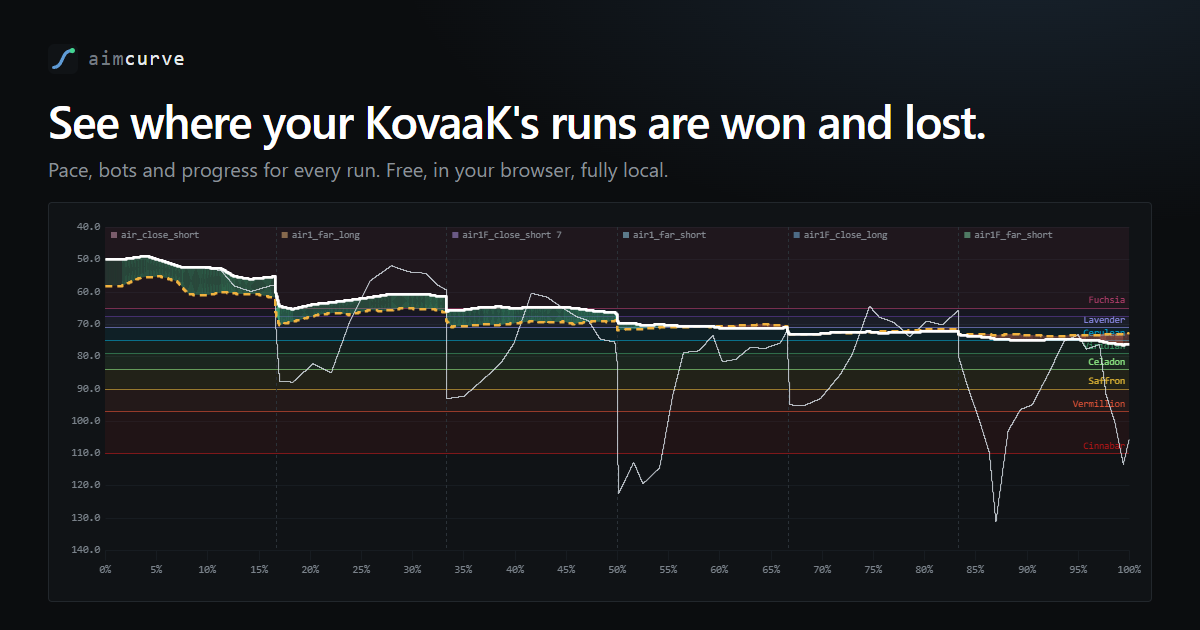
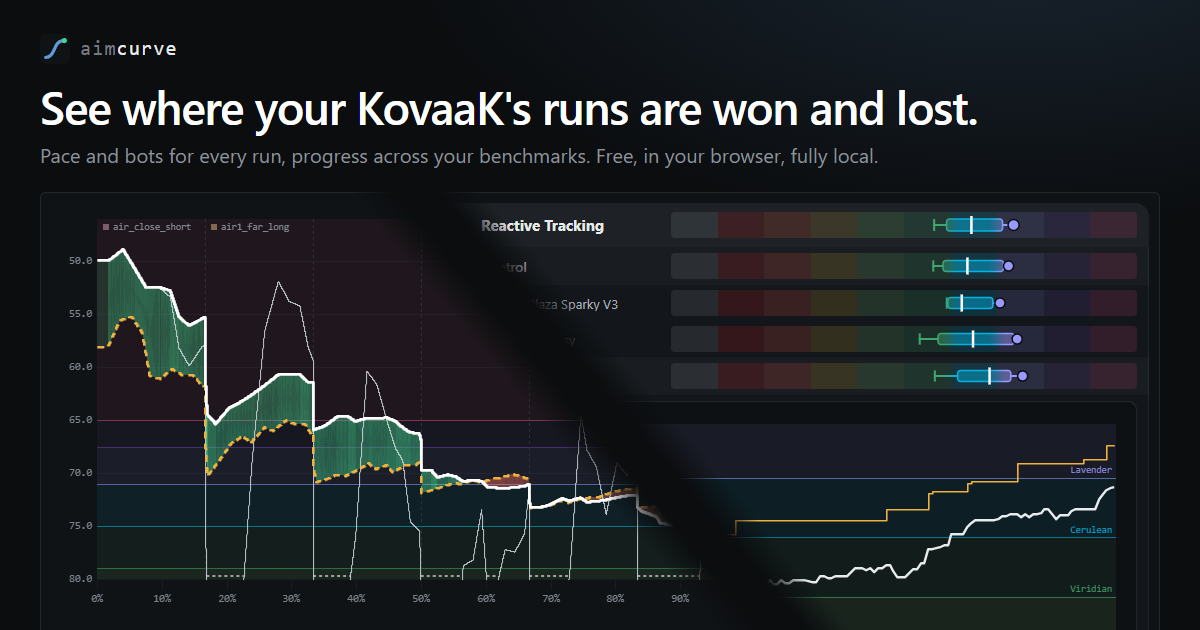
feat: the link card shows the run and the benchmark sheet
The pace chart and the Reactive Tracking sheet, Speed open, as two
same-size panels meeting along a diagonal with plain background between
them. The dev route shows exactly the 1200x630 card.

Claude-Session: https://claude.ai/code/session_014EkwJFtZ9Z7zsQA68omJgm

diff --git a/src/views/dev/CardView.vue b/src/views/dev/CardView.vue
@@ -5,40 +5,67 @@
  * docs/preview-assets.md). It covers the app shell, so the viewport is exactly
  * the card. A route of its own rather than a mode of About, so making the
  * image never marks About as seen and never ships.
+ *
+ * Two panels of the same size, the run's pace chart on the left and on the
+ * right one category of the benchmark sheet with a subcategory's history
+ * open. Their boxes overlap a little, but along a diagonal from top left to
+ * bottom right each fades out to the card's background before the other fades
+ * in: nothing is ever drawn over anything else.
  */
 import CardChart from '../../components/about/CardChart.vue';
+import CardSheet from '../../components/about/CardSheet.vue';
 import { provideDemo } from '../../components/about/provideDemo';
 
-const { state, attempt } = provideDemo();
+const { state, attempt, now } = provideDemo();
 </script>
 
 <template>
-	<div class="card" data-shot="og">
-		<header>
-			<p class="brand">
-				<img src="/favicon.svg" alt="" />
-				<span>aim<b>curve</b></span>
-			</p>
-			<h1>See where your KovaaK's runs are won and lost.</h1>
-			<p class="sub">Pace, bots and progress for every run. Free, in your browser, fully local.</p>
-		</header>
-		<div class="plot">
-			<CardChart v-if="state === 'ready' && attempt" :attempt="attempt" />
+	<!-- Everything past the card is cut off, so the route shows exactly what the image will. -->
+	<div class="backdrop">
+		<div class="card" data-shot="og">
+			<header>
+				<p class="brand">
+					<img src="/favicon.svg" alt="" />
+					<span>aim<b>curve</b></span>
+				</p>
+				<h1>See where your KovaaK's runs are won and lost.</h1>
+				<p class="sub">Pace and bots for every run, progress across your benchmarks. Free, in your browser, fully local.</p>
+			</header>
+			<div v-if="state === 'ready' && attempt" class="stage">
+				<div class="layer run">
+					<div class="panel plot">
+						<CardChart :attempt="attempt" />
+					</div>
+				</div>
+				<div class="layer bench">
+					<div class="panel sheet">
+						<CardSheet :now="now" open="Speed" />
+					</div>
+				</div>
+			</div>
 		</div>
 	</div>
 </template>
 
 <style scoped>
-.card {
+.backdrop {
 	position: fixed;
 	inset: 0;
 	z-index: 1000;
+	overflow: hidden;
+	background: #2b2f34;
+}
+
+.card {
+	position: absolute;
+	top: 0;
+	left: 0;
 	width: 1200px;
 	height: 630px;
 	display: flex;
 	flex-direction: column;
-	gap: 18px;
-	padding: 44px 48px 28px;
+	gap: 22px;
+	padding: 34px 40px 0;
 	background:
 		radial-gradient(900px 420px at 85% -10%, rgba(95, 155, 214, 0.16), transparent 70%),
 		var(--color-bg);
@@ -65,7 +92,7 @@ const { state, attempt } = provideDemo();
 }
 
 h1 {
-	margin-top: 22px;
+	margin-top: 18px;
 	font-size: 46px;
 	line-height: 1.05;
 	letter-spacing: -0.025em;
@@ -78,15 +105,73 @@ h1 {
 	color: var(--color-text-muted);
 }
 
-.plot {
+/*
+ * Both layers cover the whole stage, so their masks share one geometry: the
+ * run fades out by --out, the sheet fades in from --in, and between the two
+ * is plain background. The panels themselves are the same size, each --w of
+ * the stage, and run off the card's bottom edge.
+ */
+.stage {
+	--angle: 50deg;
+	--out: 48.5%;
+	--in: 51.5%;
+	--soft: 3%;
+	--w: 65%;
+	position: relative;
 	flex: 1 1 0;
 	min-height: 0;
+}
+
+.layer {
+	position: absolute;
+	inset: 0;
+}
+
+.run {
+	-webkit-mask-image: linear-gradient(var(--angle), #000 calc(var(--out) - var(--soft)), transparent var(--out));
+	mask-image: linear-gradient(var(--angle), #000 calc(var(--out) - var(--soft)), transparent var(--out));
+}
+
+.bench {
+	-webkit-mask-image: linear-gradient(var(--angle), transparent var(--in), #000 calc(var(--in) + var(--soft)));
+	mask-image: linear-gradient(var(--angle), transparent var(--in), #000 calc(var(--in) + var(--soft)));
+}
+
+.panel {
+	position: absolute;
+	top: 0;
+	bottom: 0;
+	width: var(--w);
+	overflow: hidden;
+	border: 1px solid var(--color-border);
+	border-bottom: 0;
+	border-radius: 6px 6px 0 0;
+	background: var(--color-surface);
+}
+
+.plot {
+	left: 0;
 	display: flex;
 	flex-direction: column;
-	border: 1px solid var(--color-border);
-	border-radius: 4px;
-	background: var(--color-surface);
-	padding: 6px 10px 0 0;
+	padding: 8px 10px 0 0;
+}
+
+.sheet {
+	right: 0;
+	padding: 10px 10px 0;
+}
+
+/* Names and candles only: the pills would squeeze the lanes, and add little here. */
+.sheet :deep(.sheet) {
+	min-width: 0;
+}
+
+.sheet :deep(.sheet-grid) {
+	grid-template-columns: 200px minmax(0, 1fr);
+}
+
+.sheet :deep(.row > :nth-child(n + 3)) {
+	display: none;
 }
 
 .plot :deep(.chart) {

diff --git a/src/components/about/CardSheet.vue b/src/components/about/CardSheet.vue
@@ -1,0 +1,36 @@
+<script setup lang="ts">
+/**
+ * The demo category's sheet for the link-preview card: no legend, no actions,
+ * one subcategory folded open so its history chart shows. Sized by the card;
+ * whatever does not fit is cut off.
+ */
+import { computed, toRef } from 'vue';
+import BenchmarkTable from '../BenchmarkTable.vue';
+import { DEMO_BENCHMARK_ID } from '../../lib/demo/snapshot';
+import { useDemoSheet } from './useDemoSheet';
+
+const props = defineProps<{
+	now: number;
+	/** The subcategory to show folded open. */
+	open: string;
+}>();
+
+const { page, runWindow, rows } = useDemoSheet(toRef(props, 'now'));
+const opened = computed(() => new Set(rows.value.filter((r) => r.level === 'subcategory' && r.name === props.open).map((r) => r.key)));
+</script>
+
+<template>
+	<BenchmarkTable
+		v-if="page.tree.value && rows.length > 0"
+		:rows="rows"
+		:ranks="page.tree.value.ranks"
+		:open="opened"
+		:chart-for="page.chartFor"
+		:date-axis="false"
+		:run-window="runWindow"
+		:benchmark-id="DEMO_BENCHMARK_ID"
+		:legend="false"
+		:actions="false"
+		:now="now"
+	/>
+</template>
